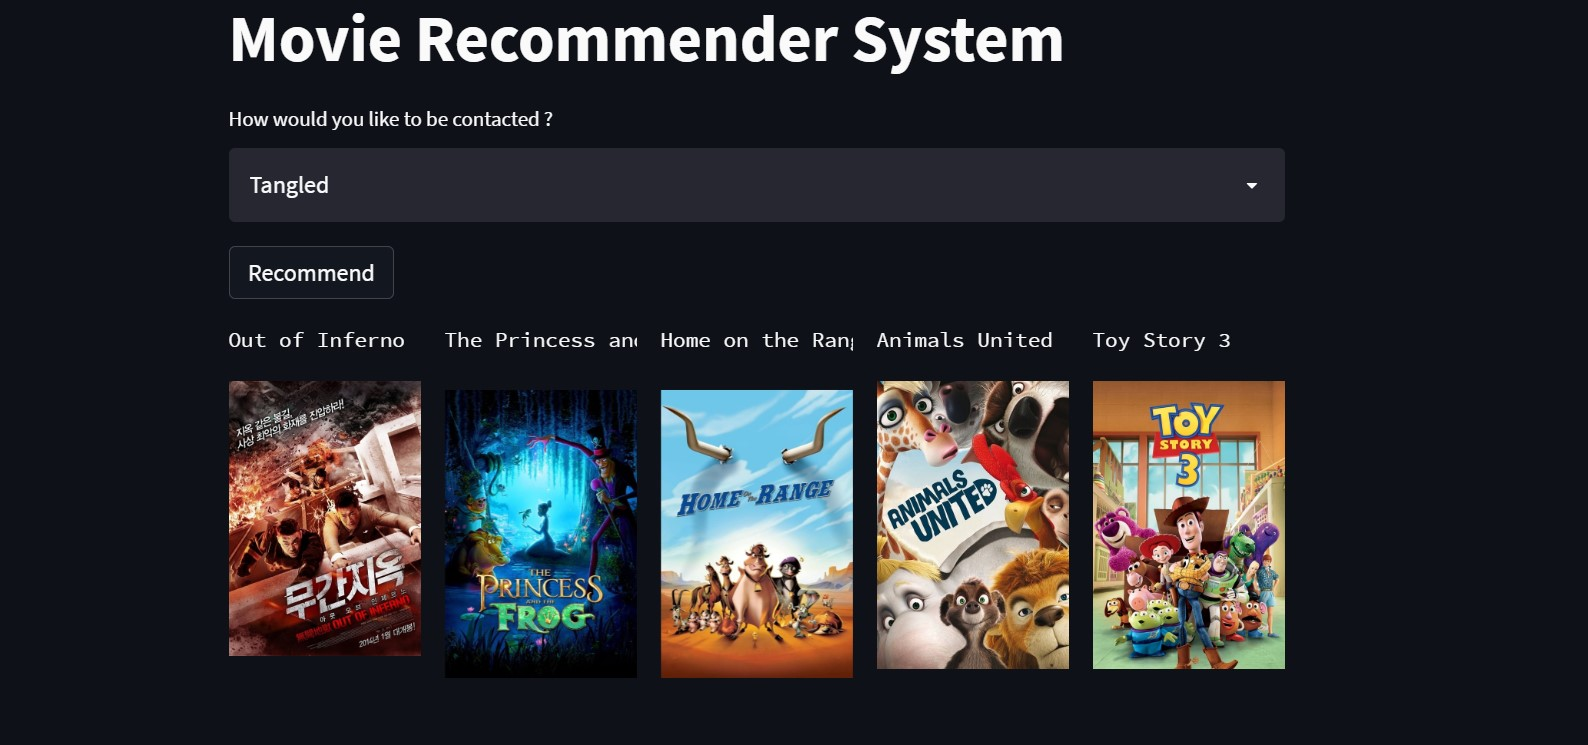
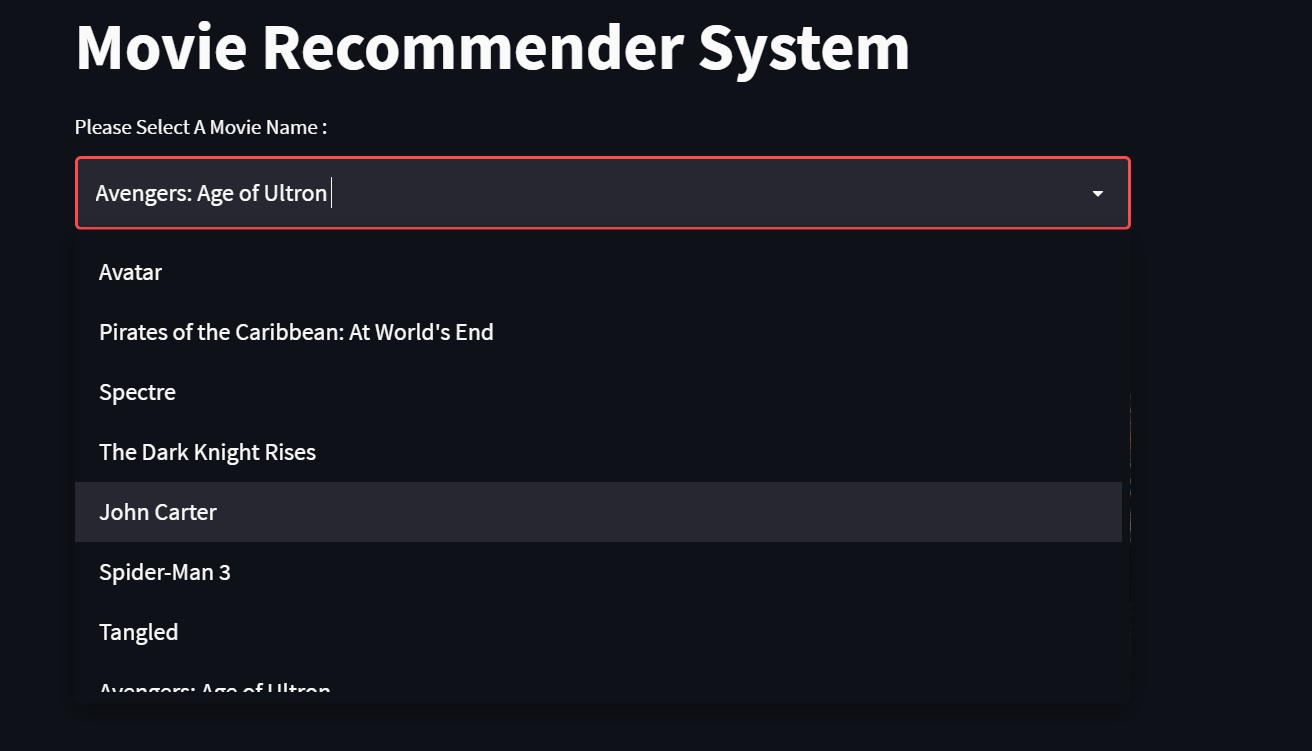
All Files Added

diff --git a/Deploy/app.py b/Deploy/app.py
@@ -4,7 +4,7 @@ import pandas as pd
 import requests
 
 def fetch_poster(movie_id):
-    url = "https://api.themoviedb.org/3/movie/{}?api_key=8265bd1679663a7ea12ac168da84d2e8&language=en-US".format(movie_id)
+    url = "https://api.themoviedb.org/3/movie/{}?api_key=<<YOUR_API_KEY>>&language=en-US".format(movie_id)
     data = requests.get(url)
     data = data.json()
     poster_path = data['poster_path']
@@ -32,7 +32,7 @@ similarity = pickle.load(open('similarity.pkl','rb'))
 
 st.title('Movie Recommender System')
 
-selected_movie_name = st.selectbox('How would you like to be contacted ?', movies['title'].values)
+selected_movie_name = st.selectbox('Please Select A Movie Name : ', movies['title'].values)
 
 if st.button('Recommend'):
     names,posters = recommend(selected_movie_name)

diff --git a/README.md b/README.md
@@ -1,20 +1,1 @@
 # Movie-Recommender-System
-
-
-Application Deployed Through Heroku on https://movierecommendersystem11.herokuapp.com/
-
-Output:
-
-
-<img src='Output/1.jpg'></img>
-<br>
-<br>
-<img src='Output/2.jpg'></img>
-<br>
-<br>
-<img src='Output/3.jpg'></img>
-<br>
-<br>
-<img src='Output/4.jpg'></img>
-<br>
-<br>
